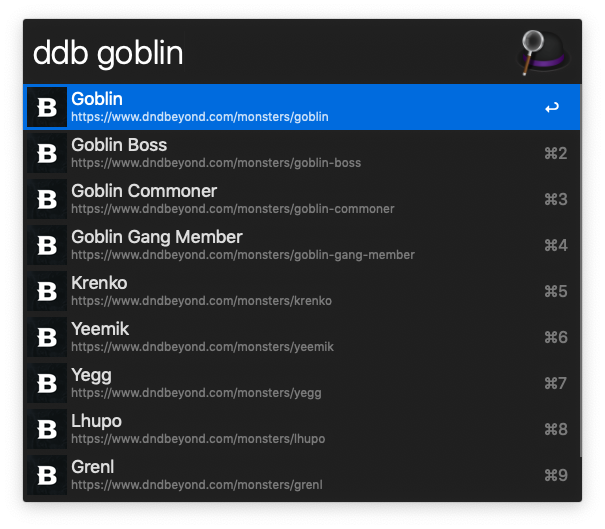
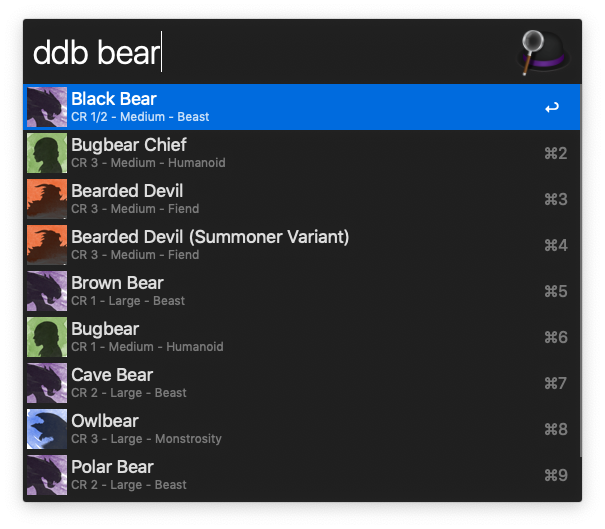
release v0.4

Changed region(s): [[0.0298, 0.0605, 0.6843, 0.9376]]

diff --git a/alfred-dndbeyond-monster-workflow.go b/alfred-dndbeyond-monster-workflow.go
@@ -13,6 +13,7 @@ import (
 	"log"
 	"os"
 	"os/exec"
+	"strings"
 
 	aw "github.com/deanishe/awgo"
 	"github.com/deanishe/awgo/update"
@@ -24,18 +25,41 @@ import (
 const updateJobName = "checkForUpdate"
 
 var (
-	doCheck       bool
-	baseurl       = "https://www.dndbeyond.com"
-	helpURL       = "https://marius-schuller.de"
-	maxResults    = 10
-	url           = baseurl + "/search?f=monsters&c=monsters&q=" // ddb search url
-	iconAvailable = &aw.Icon{Value: "update-available.png"}
-	repo          = "Wayneoween/alfred-dndbeyond-monster-workflow" // GitHub repo
-	wf            *aw.Workflow                                     // Our Workflow object
+	doCheck     bool
+	baseurl     = "https://www.dndbeyond.com"
+	iconbaseurl = "https://www.dndbeyond.com/Content/1-0-244-0/Skins/Waterdeep/images/icons/monsters/"
+	helpURL     = "https://marius-schuller.de"
+	maxResults  = 10
+	url         = baseurl + "/monsters?filter-search="           // ddb search url
+	repo        = "Wayneoween/alfred-dndbeyond-monster-workflow" // GitHub repo
+	wf          *aw.Workflow                                     // Our Workflow object
+
+	// Icons
+	updateAvailable = &aw.Icon{Value: "icons/update-available.png"}
+	// Monster Type Icons
+	monsterIconDefault       = &aw.Icon{Value: "icons/dnd/default.png"}
+	monsterIconAbberations   = &aw.Icon{Value: "icons/dnd/aberration.jpg"}
+	monsterIconBeasts        = &aw.Icon{Value: "icons/dnd/beast.jpg"}
+	monsterIconCelestials    = &aw.Icon{Value: "icons/dnd/celestial.jpg"}
+	monsterIconConstructs    = &aw.Icon{Value: "icons/dnd/construct.jpg"}
+	monsterIconDragons       = &aw.Icon{Value: "icons/dnd/dragon.jpg"}
+	monsterIconElementals    = &aw.Icon{Value: "icons/dnd/elemental.jpg"}
+	monsterIconFey           = &aw.Icon{Value: "icons/dnd/fey.jpg"}
+	monsterIconFiends        = &aw.Icon{Value: "icons/dnd/fiend.jpg"}
+	monsterIconGiants        = &aw.Icon{Value: "icons/dnd/giant.jpg"}
+	monsterIconHumanoids     = &aw.Icon{Value: "icons/dnd/humanoid.jpg"}
+	monsterIconMonstrosities = &aw.Icon{Value: "icons/dnd/monstrosity.jpg"}
+	monsterIconOozes         = &aw.Icon{Value: "icons/dnd/ooze.jpg"}
+	monsterIconPlants        = &aw.Icon{Value: "icons/dnd/plant.jpg"}
+	monsterIconUndead        = &aw.Icon{Value: "icons/dnd/undead.jpg"}
 )
 
 type monster struct {
+	MonsterCR   string
+	MonsterIcon *aw.Icon
 	MonsterName string
+	MonsterSize string
+	MonsterType string
 	MonsterURL  string
 }
 
@@ -95,7 +119,7 @@ func run() {
 			Subtitle("↩ to install").
 			Autocomplete("workflow:update").
 			Valid(false).
-			Icon(iconAvailable)
+			Icon(updateAvailable)
 	}
 
 	log.Printf("[main] query=%s", query)
@@ -107,19 +131,70 @@ func run() {
 		colly.Async(true),
 	)
 
+	// randomize the user agent colly uses
 	extensions.RandomUserAgent(c)
 
-	c.OnHTML(".ddb-search-results-listing-item-header-primary-text", func(e *colly.HTMLElement) {
+	// on every node with class="info"
+	c.OnHTML(".info", func(e *colly.HTMLElement) {
 		temp := monster{}
-		temp.MonsterName = e.ChildText("a")
-		temp.MonsterURL = e.ChildAttr("a", "href")
+		temp.MonsterCR = e.ChildText(".monster-challenge")
+		temp.MonsterType = e.ChildText(".type")
+		// for now we use a generic icon for the monster type
+		switch strings.ToLower(temp.MonsterType) {
+		case "aberration":
+			temp.MonsterIcon = monsterIconAbberations
+		case "beast":
+			temp.MonsterIcon = monsterIconBeasts
+		case "celestial":
+			temp.MonsterIcon = monsterIconCelestials
+		case "construct":
+			temp.MonsterIcon = monsterIconConstructs
+		case "dragon":
+			temp.MonsterIcon = monsterIconDragons
+		case "elemental":
+			temp.MonsterIcon = monsterIconElementals
+		case "fey":
+			temp.MonsterIcon = monsterIconFey
+		case "fiend":
+			temp.MonsterIcon = monsterIconFiends
+		case "giant":
+			temp.MonsterIcon = monsterIconGiants
+		case "humanoid":
+			temp.MonsterIcon = monsterIconHumanoids
+		case "monstrosity":
+			temp.MonsterIcon = monsterIconMonstrosities
+		case "ooze":
+			temp.MonsterIcon = monsterIconOozes
+		case "plant":
+			temp.MonsterIcon = monsterIconPlants
+		case "undead":
+			temp.MonsterIcon = monsterIconUndead
+		default:
+			temp.MonsterIcon = monsterIconDefault
+		}
+		temp.MonsterName = e.ChildText(".name")
+		temp.MonsterSize = e.ChildText(".monster-size")
+		temp.MonsterURL = e.ChildAttr(".name .link", "href")
 		monsters = append(monsters, temp)
-		wf.NewItem(temp.MonsterName).Subtitle(baseurl + temp.MonsterURL).Arg(baseurl + temp.MonsterURL).UID(temp.MonsterName + temp.MonsterURL).Valid(true)
-		log.Println("MonsterName ", temp.MonsterName)
-		log.Println("MonsterURL ", baseurl+temp.MonsterURL)
+
+		wf.NewItem(temp.MonsterName).
+			Subtitle("CR " + temp.MonsterCR + " - " + temp.MonsterSize + " - " + temp.MonsterType).
+			Icon(temp.MonsterIcon).
+			Arg(baseurl + temp.MonsterURL).
+			UID(temp.MonsterName + temp.MonsterURL).
+			Valid(true)
+
+		log.Println("MonsterCR:   ", temp.MonsterCR)
+		log.Println("MonsterIcon: ", temp.MonsterIcon)
+		log.Println("MonsterName: ", temp.MonsterName)
+		log.Println("MonsterType: ", temp.MonsterType)
+		log.Println("MonsterSize: ", temp.MonsterSize)
+		log.Println("MonsterURL:  ", baseurl+temp.MonsterURL)
+		log.Println("-------------------------------------------------")
 	})
 
 	c.Visit(url + query)
+	log.Println("Visiting ", url+query)
 
 	c.Wait()
 

diff --git a/CHANGELOG.md b/CHANGELOG.md
@@ -1,17 +1,24 @@
 Changelog
 =========
 
+Version 0.4 – 2019-04-22
+------------------------
+
+### Features
+
+* [Implement generic monster type images](https://github.com/Wayneoween/alfred-dndbeyond-monster-workflow/issues/5)
+
 Version 0.3 – 2019-04-22
 ------------------------
 
-### Bugfixes
+### Features
 
 * [Implement Auto-Update](https://github.com/Wayneoween/alfred-dndbeyond-monster-workflow/issues/4)
 
 Version 0.2 – 2019-04-22
 ------------------------
 
-### Bugfixes
+### Features
 
 * [Reduced the workflow file size!](https://github.com/Wayneoween/alfred-dndbeyond-monster-workflow/issues/3)
 
